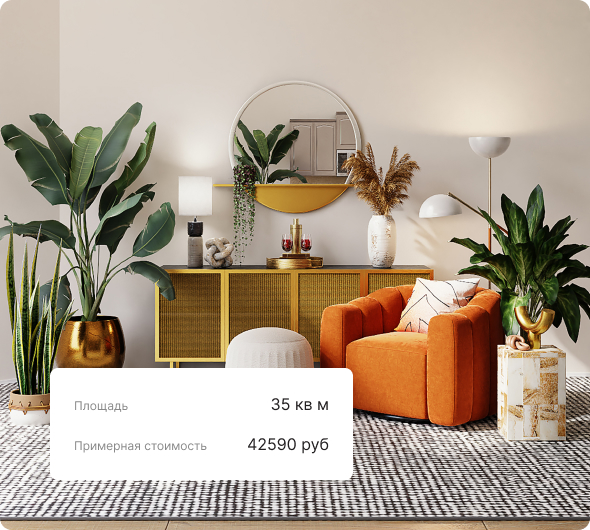
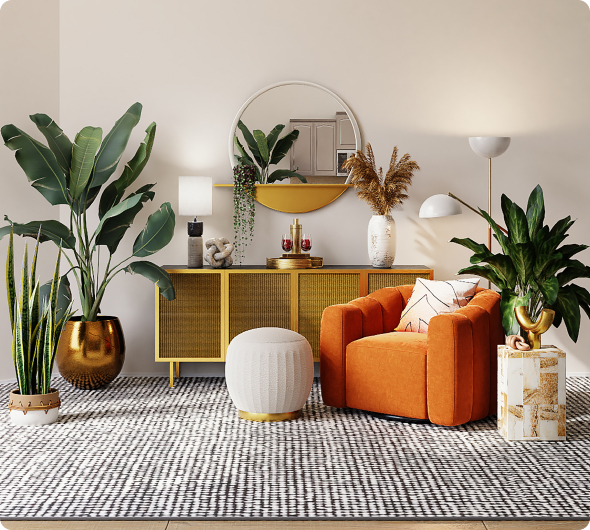
day3, adptive (calc+footer)

Changed region(s): [[0.061, 0.6943, 0.6102, 0.9057]]

diff --git a/style/calc.css b/style/calc.css
@@ -3,11 +3,12 @@
 
 .calc__container {
   display: flex;
-  gap: 10px;
+  gap: var(--gap);
 }
 
 .calc__content {
-  flex-basis: 50%;
+  /* flex-basis: 50%; */
+  width: var(--width-block);
 }
 
 .calc__title {
@@ -35,6 +36,7 @@
 
 .calc__wrapper-input-size {
   margin-right: 10px;
+  flex-basis: 50%;
 }
 
 .calc__wrapper-input-size:last-child {
@@ -48,7 +50,8 @@
 }
 
 .calc__input-number {
-  width: 240px;
+  /* width: 240px; */
+  width: 100%;
   height: 54px;
   background: #FFFFFF;
   border: 1px solid #E4E4E4;
@@ -118,10 +121,11 @@
 }
 
 .calc__total {
-  flex-basis: 50%;
+  /* flex-basis: 50%; */
+  width: var(--width-block);
   display: flex;
   align-items: flex-end;
-  padding: 50px;
+  padding: var(--padding);
   background: #333 url('../img/calc_bg.jpg') center/cover no-repeat ;
   border-radius: 12px;
 }
@@ -147,4 +151,92 @@
 }
 
 .calc__result-text {
+}
+
+@media (max-width: 1240px) {
+  .calc__title {
+    margin-bottom: 24px;
+  }
+
+  .calc__fieldset_size {
+    margin-bottom: 24px;
+  }
+
+  .calc__fieldset_tariff {
+    margin-bottom: 34px;
+  }
+}
+
+@media (max-width: 920px) {
+  .calc {
+    --width-block: 100%;
+  }
+  
+  .calc__container {
+    flex-direction: column;
+  }
+
+  .calc__fieldset_tariff {
+    margin-bottom: 36px;
+  }
+
+  .calc__input-number {
+    height: 36px;
+  }
+
+  .calc__label-radio {
+    font-size: 14px;
+    padding: 0 16px;
+  }
+
+  .calc__text_legend {
+    margin-bottom: 8px;
+  }
+  
+  .calc__total {
+    min-height: 220px;
+    align-items: flex-start;
+    background-position: 50% 75%;
+  }
+}
+
+@media (max-width: 560px) {
+  .calc__title {
+    margin-bottom: 16px;
+  }
+
+  .calc__fieldset_size {
+    flex-direction: column;
+    margin-bottom: 16px;
+  }  
+
+  .calc__fieldset_tariff{
+    margin-bottom: 24px;
+  }
+
+  .calc__wrapper-input-size {
+    margin-right: 0;
+    margin-bottom: 10px;
+  }
+  .calc__wrapper-input-size:last-child {
+    margin-bottom: 0;
+  }
+
+  .calc__wrapper-input-tariff {
+    display: flex;
+    margin-right: 0;
+    margin-bottom: 8px;
+  }
+
+  .calc__wrapper-input-tariff:last-child {
+    margin-bottom: 0;
+  }
+
+  .calc__total {
+    min-height: auto;
+  }
+
+  .calc__result-wrapper {
+    padding: 16px;
+  }
 }

diff --git a/style/footer.css b/style/footer.css
@@ -51,3 +51,52 @@
   align-items: center;
   gap: 8px;
 }
+
+@media (max-width: 1240px) {
+  .footer__container {
+    column-gap: 86px;
+    padding-top: 30px;
+  }
+}
+
+@media (max-width: 920px) {
+  .footer {
+    font-size: 14px;
+  }
+
+  .footer__container {
+    gap: 28px 74px;
+    padding-top: 24px;
+  }
+
+  .footer__logo {
+    width: 124px;
+  }
+
+  .footer__social {
+    gap: 16px;
+  }
+
+  .footer__contact {
+    gap: 8px;
+  }
+}
+
+@media (max-width: 720px) {
+  .footer__container {
+    column-gap: 44px;
+  }
+}
+
+@media (max-width: 560px) {
+  .footer__container {
+    display: flex;
+    flex-direction: column;
+    gap: 24px;
+  }
+
+  .footer__copyright {
+    order: 2;
+  }
+}
+  

diff --git a/index.html b/index.html
@@ -11,9 +11,9 @@
   <link rel="stylesheet" href="style/style.css">
   <link rel="stylesheet" href="style/header.css">
   <link rel="stylesheet" href="style/hero.css">
-  <!-- <link rel="stylesheet" href="style/advantages.css"> -->
-  <!-- <link rel="stylesheet" href="style/calc.css"> -->
-  <!-- <link rel="stylesheet" href="style/footer.css"> -->
+  <link rel="stylesheet" href="style/advantages.css">
+  <link rel="stylesheet" href="style/calc.css">
+  <link rel="stylesheet" href="style/footer.css">
   <link rel="stylesheet" href="https://cdn.jsdelivr.net/npm/swiper@9/swiper-bundle.min.css" />
 
   <script src="https://cdn.jsdelivr.net/npm/swiper@9/swiper-bundle.min.js" defer></script>

diff --git a/style/hero.css b/style/hero.css
@@ -99,17 +99,34 @@
 
   .hero__title {
     margin-bottom: 16px;
+    max-width: 410px;
   }
 
   .hero__description {
     margin-bottom: 50px;
+    max-width: 410px;
+    font-size: 14px;
   }
 
   .hero__slider-block {
     position: static;
     height: 280px;
   }
+
+  .hero__slider-nav {
+    left: auto;
+    right: var(--padding);
+    transform: none;
+  }
 }
 
 @media (max-width: 560px) {
+  .hero__description {
+    margin-bottom: 24px;
+    font-size: 12px;
+  }
+  .hero__slider-block {
+    max-width: var(--width-slide);
+    margin: 0 auto;
+  }
 }

diff --git a/js/script.js b/js/script.js
@@ -9,4 +9,12 @@ const swiper = new Swiper('.hero__slider', {
   autoplay: {
     delay: 3000,
   },
+  breakpoints: {
+    320: {
+      slidesPerView: 1,
+    },
+    560: {
+      spaceBetween: 8,
+    },
+  },
 });
